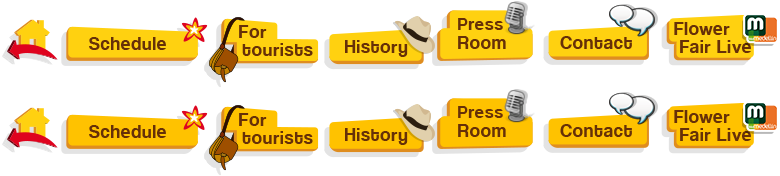
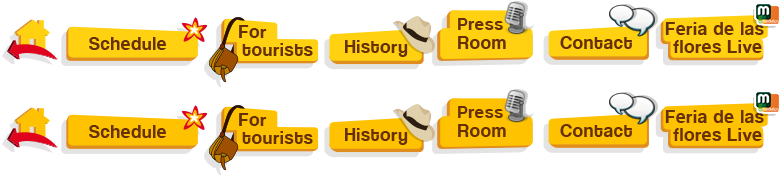
Se cambió el item final del menú en inglés

Changed region(s): [[0.8308, 0.5114, 1.0, 0.8807], [0.8308, 0.0284, 1.0, 0.3693]]

diff --git a/wp-content/themes/feria/header.php b/wp-content/themes/feria/header.php
@@ -135,12 +135,12 @@
                                 <?php else: ?>
                                  <ul class="menuEn menuholderEn hidden-phone"> 
                                     <li class="menu_inicio"><a href="<?php echo home_url(); ?>/en/" title="Inicio" class="active">Inicio</a></li>
-                                    <li class="menu_programacion"><a href="<?php echo home_url(); ?>/en/category/programacion/" title="Programación">Programación</a></li>
-                                    <li class="menu_turistica"><a href="<?php echo home_url(); ?>/en/category/infoturistica/" title="Info Turística">Info Turística</a></li>
-                                    <li class="menu_historia"><a href="<?php echo home_url(); ?>/en/category/historia/" title="Historia">Historia</a></li>
-                                    <li class="menu_saladeprensa"><a href="<?php echo home_url(); ?>/en/category/saladeprensa/" title="Sala de Prensa">Sala de Prensa</a></li>
-                                    <li class="menu_contactenos"><a href="<?php echo home_url(); ?>/en/contacto" title="Contáctenos">Contáctenos</a></li>
-                                    <li class="menu_envivo"><a href="<?php echo home_url(); ?>/en/la-feria-en-vivo/" title="En Vivo">En Vivo</a></li>
+                                    <li class="menu_programacion"><a href="<?php echo home_url(); ?>/en/category/programacion/" title="Programación">Schedule</a></li>
+                                    <li class="menu_turistica"><a href="<?php echo home_url(); ?>/en/category/infoturistica/" title="Info Turística">Four Turist</a></li>
+                                    <li class="menu_historia"><a href="<?php echo home_url(); ?>/en/category/historia/" title="Historia">History</a></li>
+                                    <li class="menu_saladeprensa"><a href="<?php echo home_url(); ?>/en/category/saladeprensa/" title="Sala de Prensa">Press Room</a></li>
+                                    <li class="menu_contactenos"><a href="<?php echo home_url(); ?>/en/contacto/" title="Contact us">Contact us</a></li>
+                                    <li class="menu_envivo"><a href="<?php echo home_url(); ?>/en/la-feria-en-vivo/" title="En Vivo">La Feria Live</a></li>
                                 </ul>
                                 <?php endif; ?>
                                                                 

diff --git a/wp-content/themes/feria/category-2.php b/wp-content/themes/feria/category-2.php
@@ -8,7 +8,7 @@
 					<?php if (is_category()) { ?>
 						<?php if(qtrans_getLanguage() == 'es'): ?>
                     	 <ul class="breadcrumb">
-                              <li class="home"><a href="<?php echo home_url(); ?>">Home</a></li>
+                              <li class="home"><a href="<?php echo home_url(); ?>">Inicio</a></li>
                           	  <li class="active"><?php single_cat_title(); ?></li>
                           </ul>
                         <?php else: ?>					
